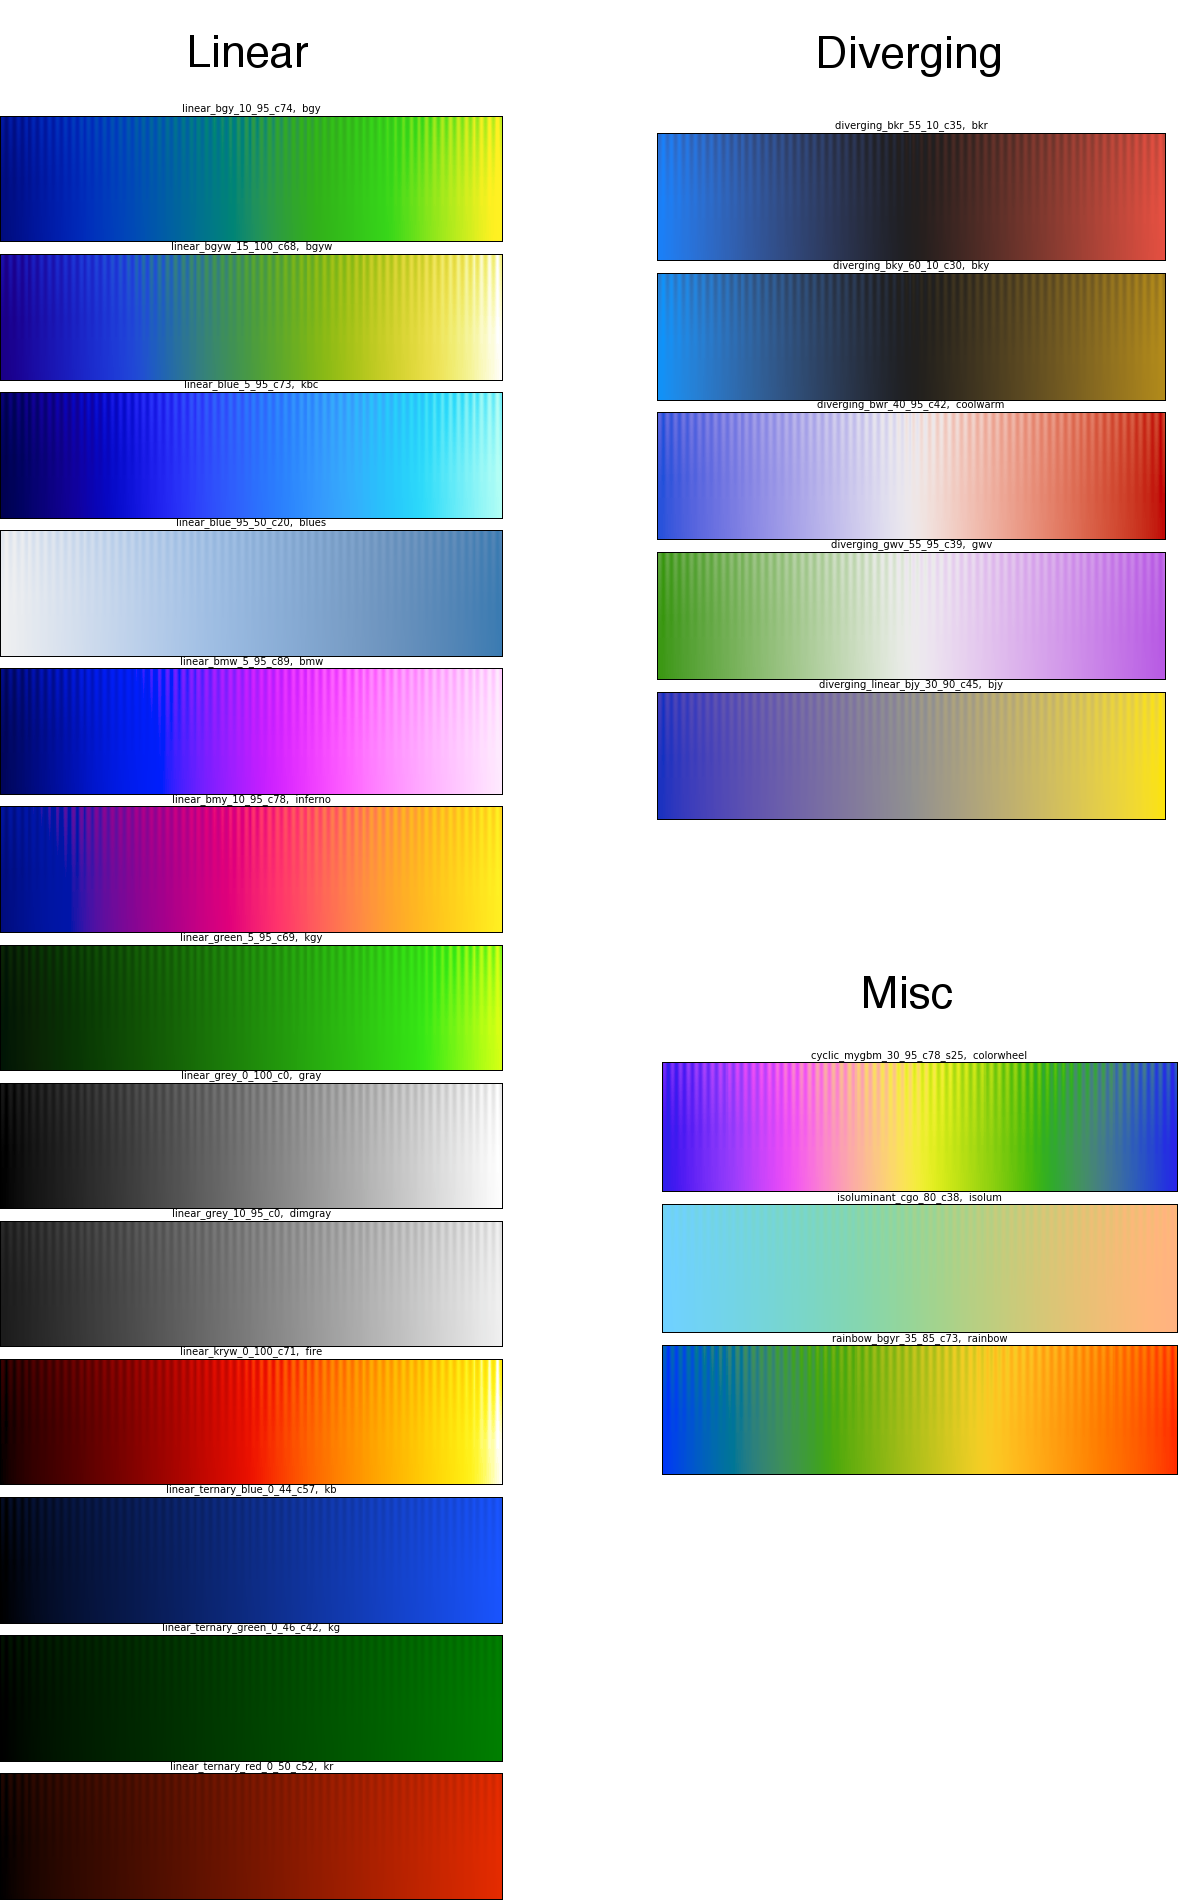
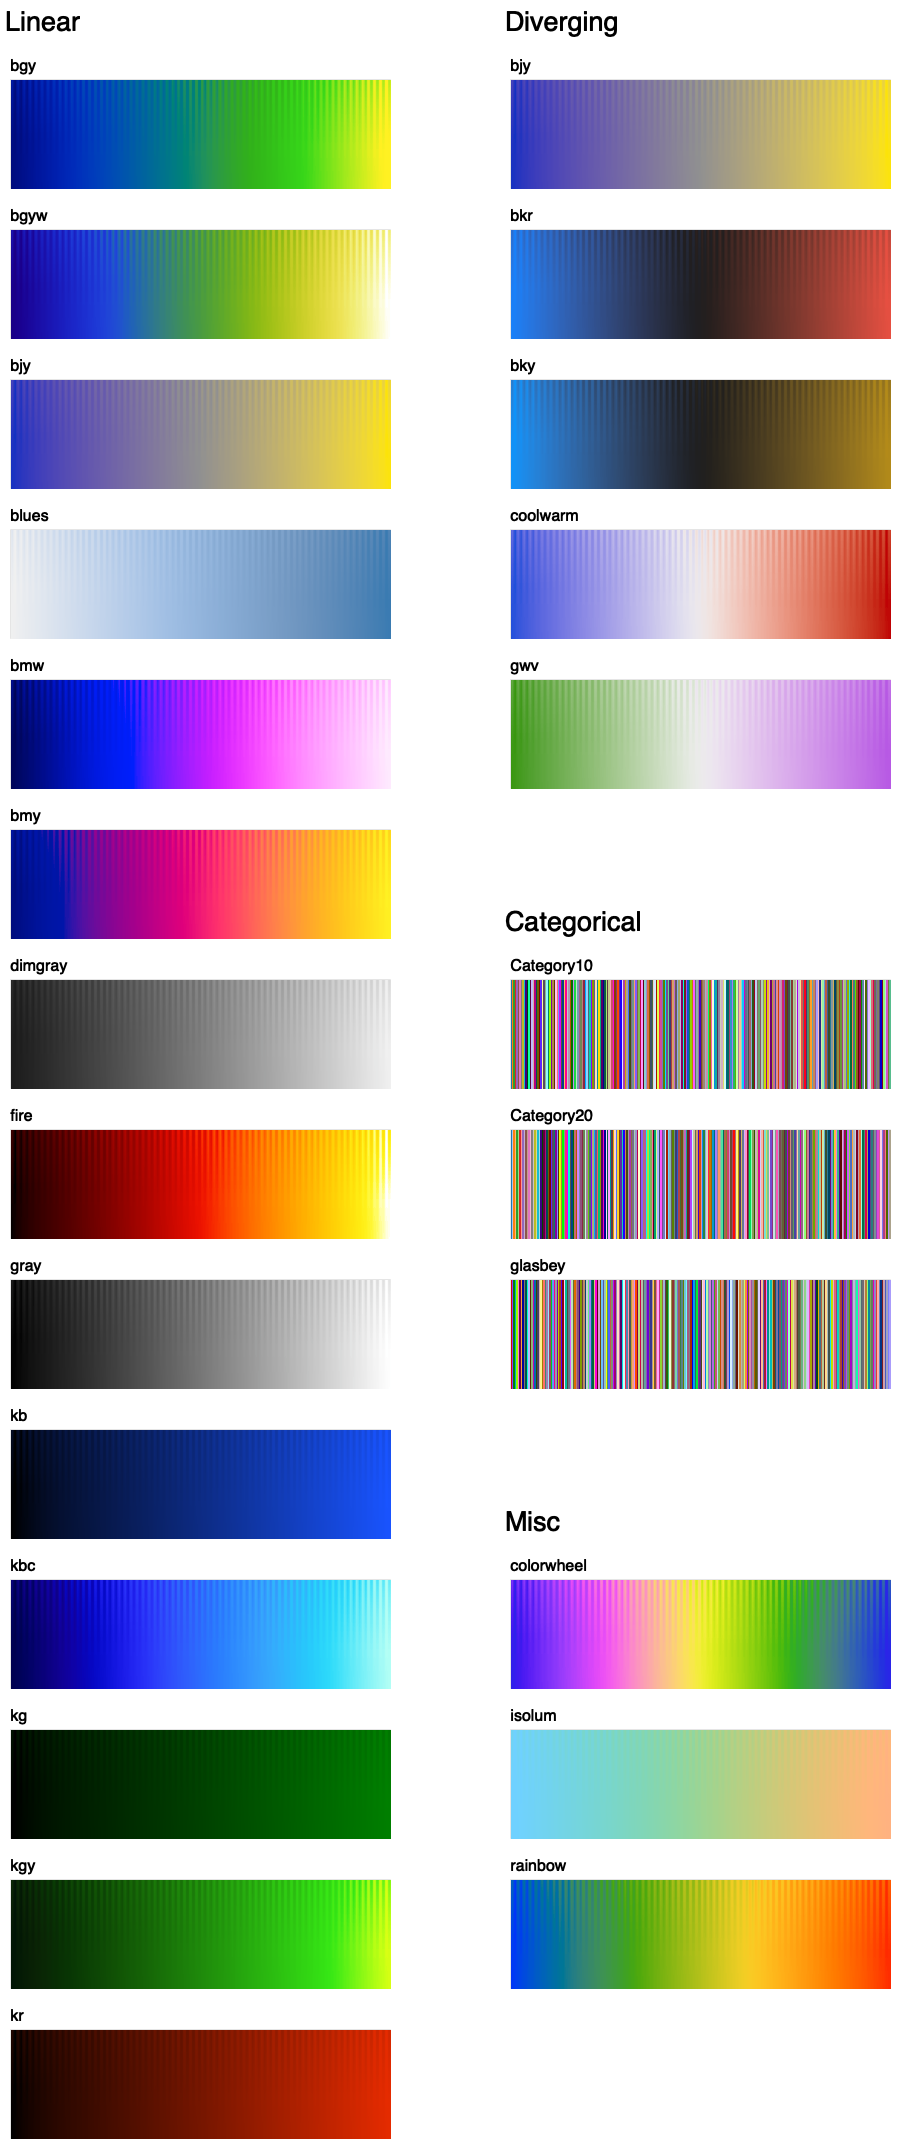
Adding reference to glasbey

diff --git a/examples/assets/write_named.py b/examples/assets/write_named.py
@@ -1,0 +1,44 @@
+import colorcet as cc
+import numpy as np
+
+import holoviews as hv
+from holoviews import opts
+
+import panel as pn
+
+hv.extension('bokeh')
+
+xs, _ = np.meshgrid(np.linspace(0, 1, 256), np.linspace(0, 1, 10))
+
+def colormap(name, cmap=None, bounds=(0, 0, 256, 1), array=xs, **kwargs):
+    if cmap is None:
+        cmap = cc.palette[name]
+    options = opts.Image(xaxis=None, yaxis=None, width=400, height=150, cmap=cmap, toolbar=None, **kwargs)
+    return hv.Image(array, bounds=bounds, group=name).opts(options)
+   
+sine = np.load("./colourmaptest.npy")
+
+def get_names_for_group(group='diverging'):
+    palettes = [v for k, v in cc.palette.items() if group in k]
+    return sorted([k for k, v in cc.palette_n.items() if v in palettes])
+    
+diverging_n = get_names_for_group('diverging')
+diverging_col = pn.Column('#Diverging', *[colormap(c, array=sine) for c in diverging_n])
+
+linear_n = get_names_for_group('linear')
+linear_col = pn.Column('#Linear', *[colormap(c, array=sine) for c in linear_n])
+
+cat_n = get_names_for_group('glasbey')
+cat_col = pn.Column('#Categorical', *[colormap(c) for c in cat_n])
+
+misc_n = sorted([k for k in cc.palette_n.keys() if k not in cat_n + diverging_n + linear_n])
+misc_col = pn.Column('#Misc', *[colormap(c, array=sine) for c in misc_n])
+
+all_named = pn.Row(
+    linear_col, pn.Spacer(width=100), 
+    pn.Column(
+        diverging_col, pn.Spacer(height=102), 
+        cat_col, pn.Spacer(height=102), 
+        misc_col))
+
+all_named.save('./images/named.png')
